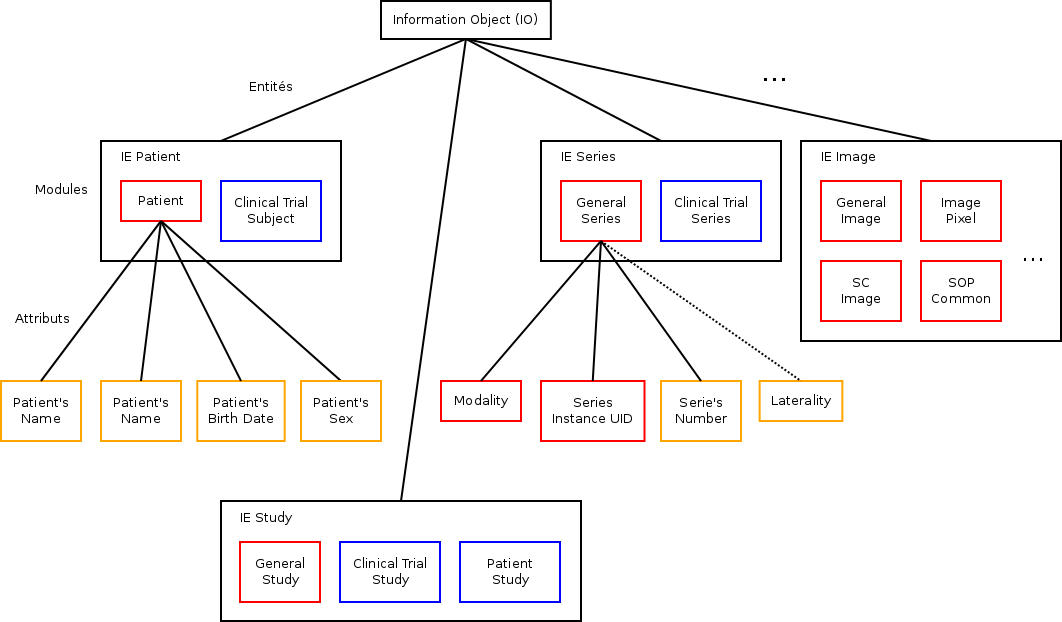
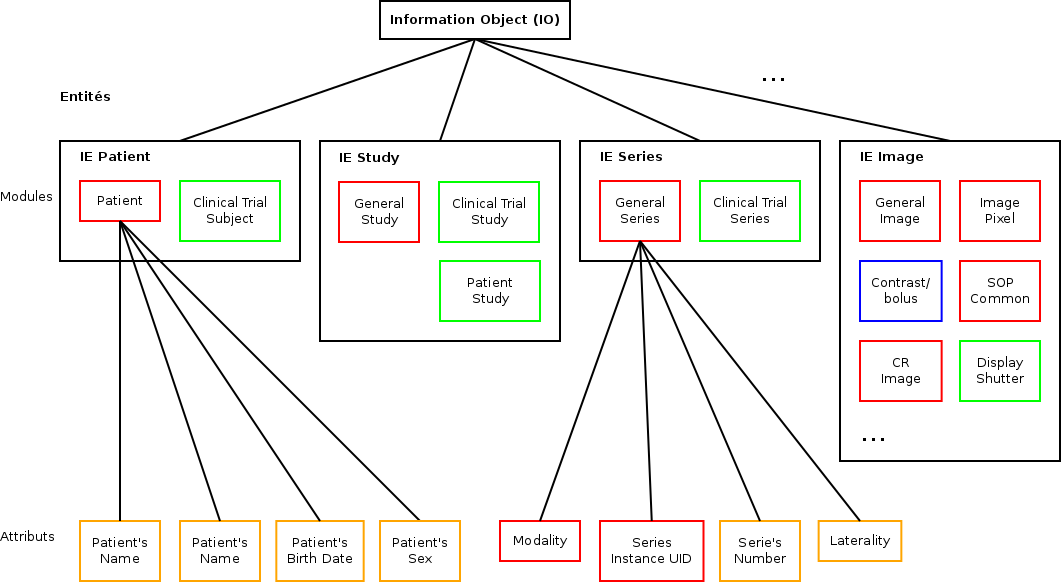
Refonte de l'IOD composite

diff --git a/dicom-1/sections/4-objets.tex b/dicom-1/sections/4-objets.tex
@@ -3,39 +3,49 @@
 \frame
 {
  	\frametitle{Information Object Definition}
-  	L'IOD d\'etermine, pour un IO sp\'ecifique, quelles sont les valeurs qu'on doit ou peut trouver dans l'objet.
+  	L'IOD d\'efinit, pour un IO sp\'ecifique, quelles sont les attributs qu'on doit/peut trouver dans l'objet.
   	\begin{description}
     		\item<2->[Normalized IOD]~\\
 			Repr\'esente une entit\'e unique du monde r\'eel (patient, visite, examen, r\'esultat, interpr\'etation,\ldots).
-			Rarement appliqu\'e en pratique : cause complexit\'e et perte de performance.
+			Complexe et peu performant.
     		\item<3->[Composite IOD]~\\
 			Repr\'esente certains d\'etails de plusieurs objets du monde r\'eel et les relations entre ces objets (nom du patient, date de l'examen,\ldots)
 		\item<4->[Attributes]~\\
-			Les attributs d'un IOD d\'ecrivent les propri\'et\'es d'un \'el\'ement (instance d'un objet) du monde r\'eel.
+			Les attributs d'un IOD sont les propri\'et\'es d'un \'el\'ement du monde r\'eel.
   	\end{description}
 }
 
 \frame
 {
  	\frametitle{IOD composite}
+	\includegraphics<2>[width=\linewidth]{./figures/IO-composite-0.png}
+	\includegraphics<4>[width=\linewidth]{./figures/IO-composite-1.png}
+	\includegraphics<6>[width=\linewidth]{./figures/IO-composite-2.png}
+	\includegraphics<8>[width=\linewidth]{./figures/IO-composite-3.png}
+	\includegraphics<10>[width=\linewidth]{./figures/IO-composite-4.png}
+	\includegraphics<12>[width=\linewidth]{./figures/IO-composite-5.png}
+	\includegraphics<14>[width=\linewidth]{./figures/IO-composite-6.png}
+	\includegraphics<16>[width=\linewidth]{./figures/IO-composite-7.png}
+	\includegraphics<18>[width=\linewidth]{./figures/IO-composite-8.png}
+	\includegraphics<20>[width=\linewidth]{./figures/IO-composite.png}
  	\begin{itemize}
-		\item<1-> IOD compos\'es d'\emph{Information Entities} ou \emph{IE}.
-   		\item<2-> Une IE comporte un ou plusieurs \emph{Modules} (= ensemble de valeurs li\'ees).
+		\item<1,3,5,7,9,11,13,15,17,19,21> IOD compos\'e d'\emph{Information Entities} ou \emph{IE}.
+   		\item<3,5,7,9,11,13,15,17,19,21> Une IE contient un ou plusieurs \emph{Modules}.
 		\begin{description}
-			\item<3->[Mandatory] Module obligatoire.
-			\item<4->[Conditional] Module conditionnel (obligatoire selon certaines conditions).
-			\item<5->[User Option] Module optionnel.
+			\item<5,7,9,11,13,15,17,19,21>[Mandatory] Module obligatoire.
+			\item<7,9,11,13,15,17,19,21>[Conditional] Module conditionnel (obligatoire selon certaines conditions).
+			\item<9,11,13,15,17,19,21>[User Option] Module optionnel.
 		\end{description}
-   		\item<6-> Les modules sont compos\'es d'\emph{Attributs} (= valeurs).
+   		\item<11,13,15,17,19,21> Les modules sont compos\'es d'\emph{Attributs} (= valeurs).
 		\begin{description}
-			\item<7->[1] Obligatoire.
-			\item<8->[2] Obligatoire - peut \^etre vide.
-			\item<9->[3] Optionnel.
-			\item<10->[<1/2>C] Conditionnel.
+			\item<13,15,17,19,21>[1] Obligatoire.
+			\item<15,17,19,21>[2] Obligatoire - peut \^etre vide.
+			\item<17,19,21>[3] Optionnel.
+			\item<19,21>[<1/2>C] Conditionnel.
 		\end{description}
  	\end{itemize}
 
-	\begin{alertblock}{En pratique}<11->
+	\begin{alertblock}{En pratique}<21>
 		Un objet DICOM est presque toujours une instance d'un IOD composite.
 	\end{alertblock}
 }
@@ -49,7 +59,7 @@
 
 \frame
 {
-	\frametitle{Information Object Defintion (IOD)}
+	\frametitle{Sch\'ema d'un IOD}
 	
 	\begin{center}
 		\includegraphics[width=\linewidth]{./figures/IO-definition.png}

diff --git a/dicom-1/sections/3-principes.tex b/dicom-1/sections/3-principes.tex
@@ -79,13 +79,13 @@
 			\end{itemize}
 		
 			\item<5-> Standard DICOM = annuaire de SOP.\\
-			SOP Class UID = num\'ero unique pour trouver \`a quelle paire correspond un objet DICOM.\\
-			Analogies : num\'ero AVS, adresse IP,\ldots
-
-			\item<6-> Exemples de SOP Class UID :
+			SOP Class UID = num\'ero unique pour trouver \`a quelle paire correspond un objet DICOM.
+			\item<6-> Analogie : annuaire\\
+			Une entr\'ee = paire \{t\'el\'ephone $+$ adresse\}.
+			\item<7-> Exemples de SOP Class UID :
 			\begin{description}
-				\item<7->[$1.2.840.10008.5.1.4.1.1.1$] CR Image Store (enregistrer un CR) ;
-				\item<8->[$1.2.840.10008.5.1.4.1.1.2$] CT Image Store (enregistrer un CT).
+				\item<8->[$1.2.840.10008.5.1.4.1.1.1$] CR Image Store (enregistrer un CR) ;
+				\item<9->[$1.2.840.10008.5.1.4.1.1.2$] CT Image Store (enregistrer un CT).
 			\end{description}
 		\end{itemize}
 	}
